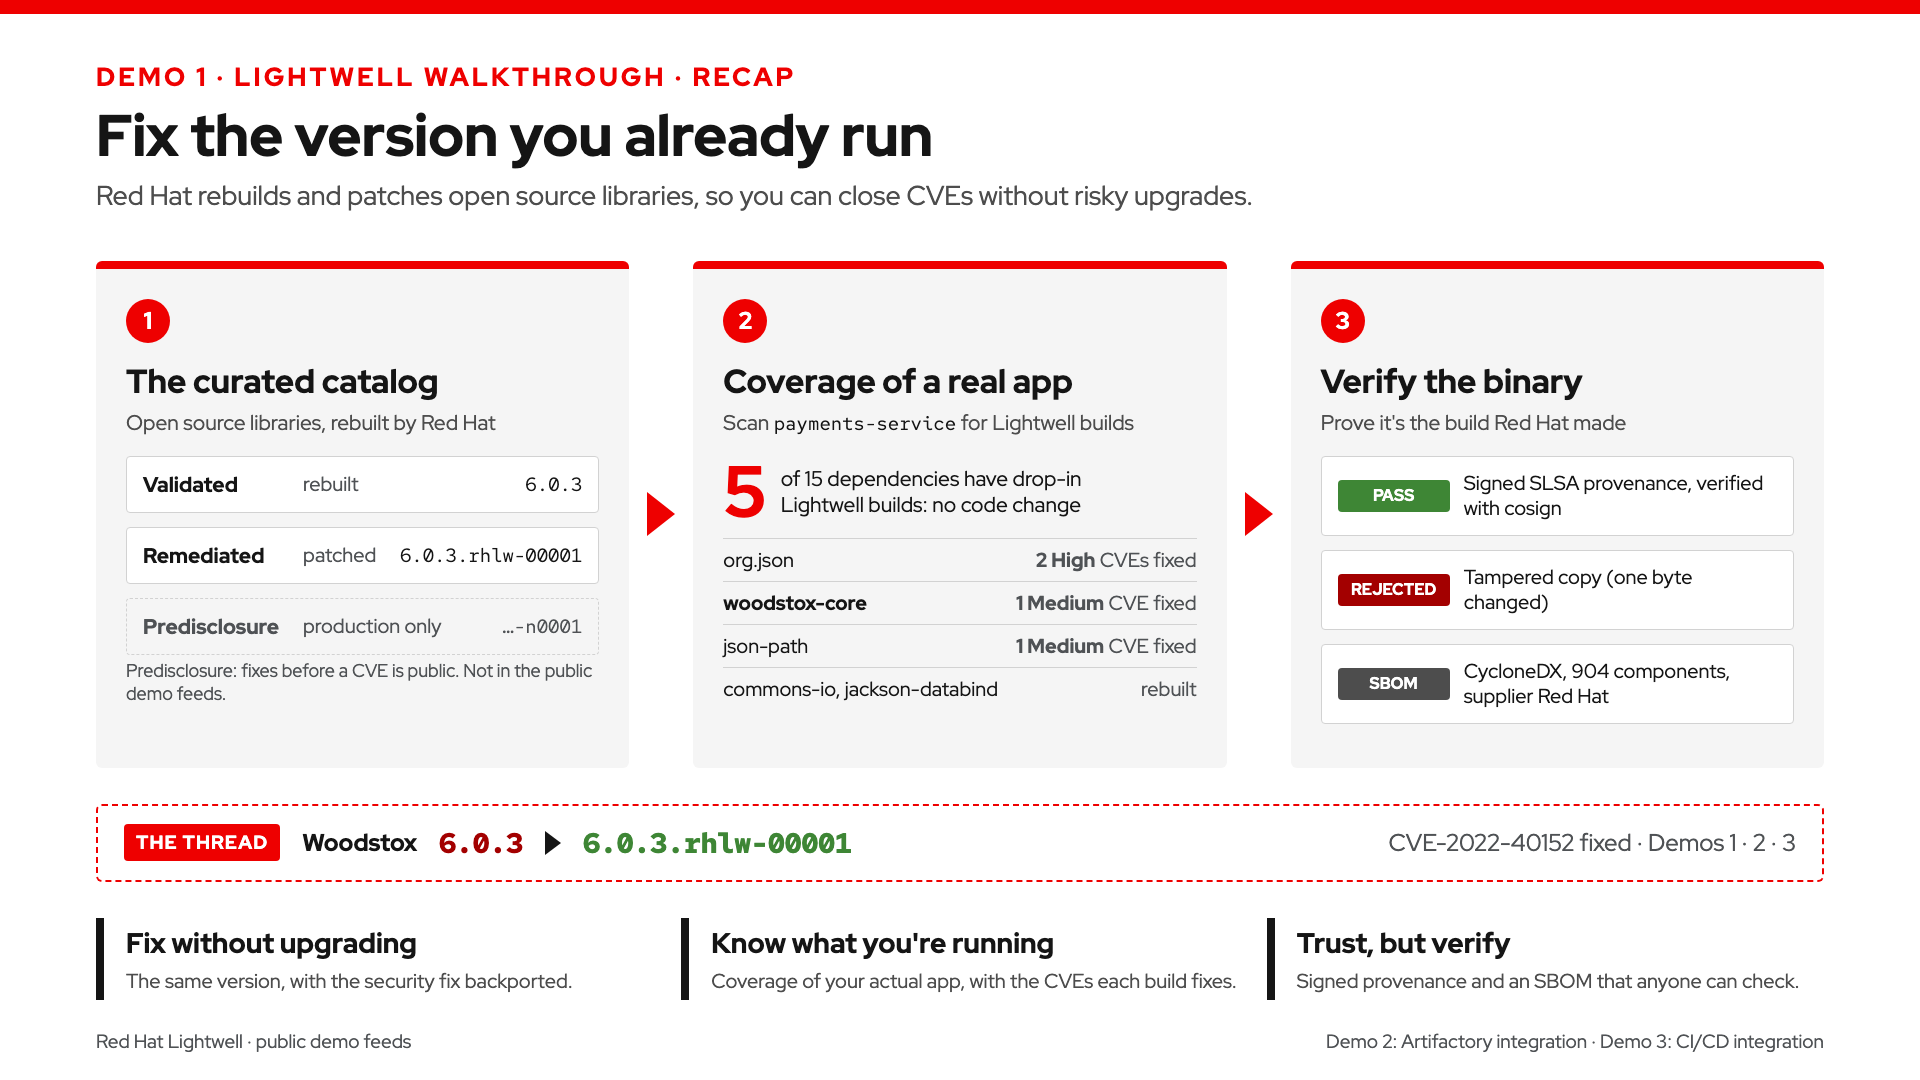
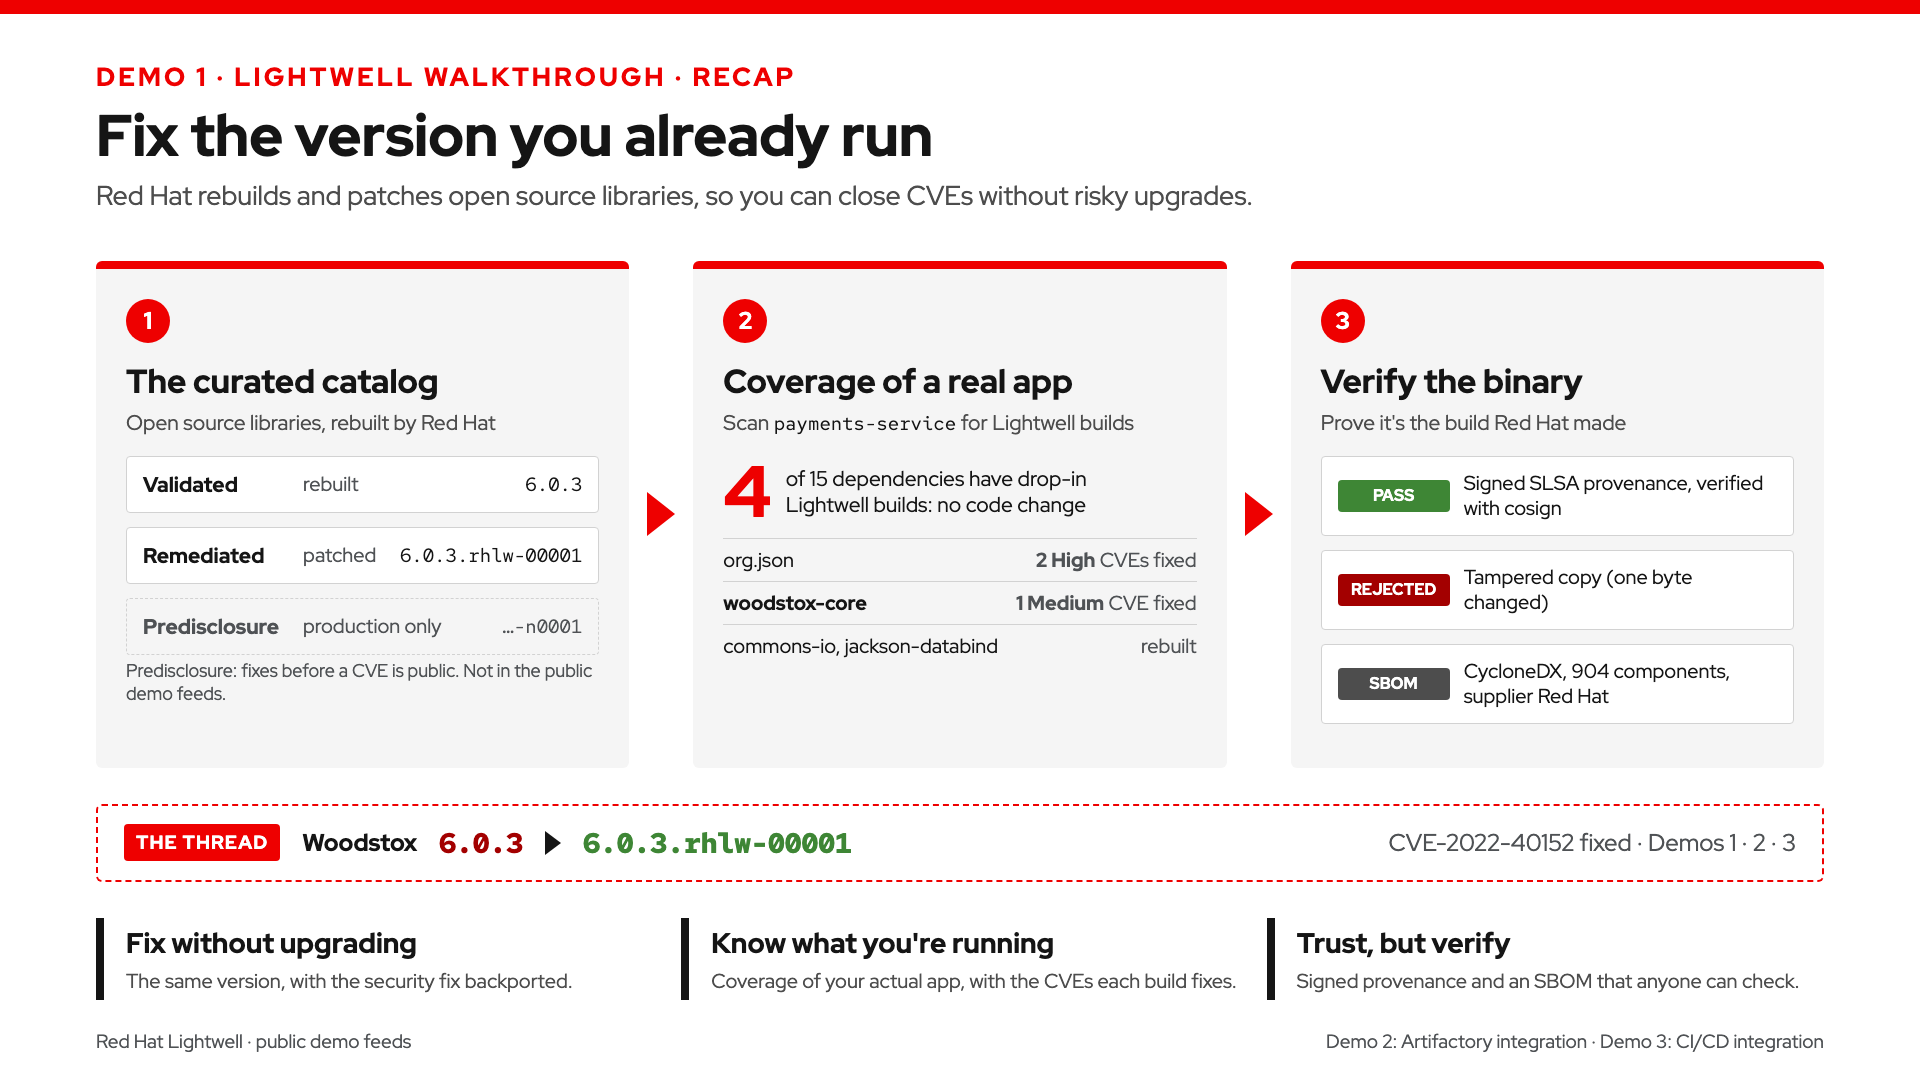
Drop json-path 2.7.0 removed from the Lightwell feed, count only drop-ins on the badge, and read CVEs from the new OSV upstream field

Changed region(s): [[0.375, 0.5806, 0.625, 0.6417], [0.375, 0.4278, 0.5625, 0.4889]]

diff --git a/demos/03-github-plugin/slides/recap.html b/demos/03-github-plugin/slides/recap.html
@@ -123,7 +123,7 @@
       <h2>The plugin</h2>
       <div class="lead">A workflow in its own repo</div>
       <div class="repo"><code>Lightwell Remediate</code><span class="note">workflow</span></div>
-      <div class="repo"><code>catalog.json</code><span class="note">8 Lightwell builds</span></div>
+      <div class="repo"><code>catalog.json</code><span class="note">7 Lightwell builds</span></div>
       <div class="repo"><code>LIGHTWELL_REPO_TOKEN</code><span class="note">one secret</span></div>
       <div class="tier-foot">No Lightwell code in the app.</div>
     </div>
@@ -134,9 +134,9 @@
       <span class="num">2</span>
       <h2>The pull request</h2>
       <div class="lead">Opened on <span class="mono">payments-service</span></div>
-      <div class="stat"><span class="big">5</span><span class="label">bumps in one pull request:<br>five lines in pom.xml</span></div>
+      <div class="stat"><span class="big">4</span><span class="label">bumps in one pull request:<br>four lines in pom.xml</span></div>
       <ul class="bullets">
-        <li><span>org.json, woodstox-core, json-path</span><span><span class="sev high">4 CVEs</span> fixed</span></li>
+        <li><span>org.json, woodstox-core</span><span><span class="sev high">3 CVEs</span> fixed</span></li>
         <li><span>commons-io, jackson-databind</span><span>rebuilt</span></li>
       </ul>
       <div class="check" style="margin-top: 14px;"><span class="badge pass">PASS</span>CI: 9 tests pass on the PR</div>
@@ -149,7 +149,7 @@
       <h2>Merge and badge</h2>
       <div class="lead">A person decides; the badge follows</div>
       <div class="shields">
-        <div class="shield-row"><span class="when">Before merge</span><span class="shield"><span class="k">Lightwell library updates</span><span class="v todo">5 available</span></span></div>
+        <div class="shield-row"><span class="when">Before merge</span><span class="shield"><span class="k">Lightwell library updates</span><span class="v todo">4 available</span></span></div>
         <div class="shield-row"><span class="when">After merge</span><span class="shield"><span class="k">Lightwell library updates</span><span class="v done">0 available</span></span></div>
       </div>
       <div class="check"><span class="badge pass">MERGED</span>Reviewed and merged by a person</div>

diff --git a/demos/01-lightwell-walkthrough/slides/recap.html b/demos/01-lightwell-walkthrough/slides/recap.html
@@ -118,11 +118,10 @@
       <span class="num">2</span>
       <h2>Coverage of a real app</h2>
       <div class="lead">Scan <span class="mono">payments-service</span> for Lightwell builds</div>
-      <div class="stat"><span class="big">5</span><span class="label">of 15 dependencies have drop-in<br>Lightwell builds: no code change</span></div>
+      <div class="stat"><span class="big">4</span><span class="label">of 15 dependencies have drop-in<br>Lightwell builds: no code change</span></div>
       <ul class="bullets">
         <li><span>org.json</span><span><span class="sev high">2 High</span> CVEs fixed</span></li>
         <li><span><b>woodstox-core</b></span><span><span class="sev medium">1 Medium</span> CVE fixed</span></li>
-        <li><span>json-path</span><span><span class="sev medium">1 Medium</span> CVE fixed</span></li>
         <li><span>commons-io, jackson-databind</span><span>rebuilt</span></li>
       </ul>
     </div>

diff --git a/tools/lightwell-github-plugin/tests/test_lightwell.py b/tools/lightwell-github-plugin/tests/test_lightwell.py
@@ -245,6 +245,23 @@ class BadgeTests(unittest.TestCase):
                 self.assertEqual(payload["message"], message)
                 self.assertEqual(payload["color"], color)
 
+    def test_badge_skips_informational_matches(self) -> None:
+        with tempfile.TemporaryDirectory() as tmp:
+            matches_path = Path(tmp) / "matches.json"
+            out = Path(tmp) / "badge.json"
+            matches_path.write_text(
+                json.dumps({"matches": [{"apply": True}, {"apply": False}]}),
+                encoding="utf-8",
+            )
+            old = sys.argv
+            try:
+                sys.argv = ["write_badge.py", "--matches", str(matches_path), "--out", str(out)]
+                self.assertEqual(write_badge.main(), 0)
+            finally:
+                sys.argv = old
+            payload = json.loads(out.read_text(encoding="utf-8"))
+            self.assertEqual(payload["message"], "1 available")
+
 
 class ReportTests(unittest.TestCase):
     def test_report_mentions_auto_pr_not_confirm(self) -> None:
@@ -528,6 +545,13 @@ class OsvCveTests(unittest.TestCase):
         osv_cves.attach_cves_to_matches(matches, [])
         self.assertEqual(matches[0]["cves"], [])
         self.assertIsNone(matches[0]["max_cvss"])
+
+    def test_cves_from_upstream_field(self) -> None:
+        doc = {
+            "id": "RHLW-2026-1da18ff8e343fdf8",
+            "upstream": ["CVE-2023-5072", "CVE-2022-45688", "GHSA-3vqj-43w4-2q58"],
+        }
+        self.assertEqual(osv_cves.osv_cve_ids(doc), ["CVE-2022-45688", "CVE-2023-5072"])
 
 
 class SyncCatalogVersionOrderTests(unittest.TestCase):

diff --git a/tools/lightwell-github-plugin/lightwell-github/osv_cves.py b/tools/lightwell-github-plugin/lightwell-github/osv_cves.py
@@ -4,7 +4,7 @@
 Lightwell publishes OSV docs for remediated builds. Public demo index (anonymous):
   https://packages.redhat.com/api/pulp-content/public-lightwell-demo/osv/java/remediated
 
-Only CVE IDs present in advisory ``aliases`` are returned — never invented.
+Only CVE IDs present in advisory ``aliases`` or ``upstream`` are returned — never invented.
 """
 
 from __future__ import annotations
@@ -167,7 +167,7 @@ def severity_with_fallback(
     if score is not None:
         return score, rating, vector
 
-    aliases = [a for a in (doc.get("aliases") or []) if isinstance(a, str)]
+    aliases = advisory_aliases(doc)
     # Prefer GHSA — typically includes CVSS when the CVE shell does not.
     ordered = sorted(aliases, key=lambda a: (0 if a.startswith("GHSA-") else 1, a))
     seen: set[str] = set()
@@ -193,14 +193,17 @@ def severity_with_fallback(
     return None, None, None
 
 
+def advisory_aliases(doc: dict[str, Any]) -> list[str]:
+    """Related IDs (CVE, GHSA) from ``aliases`` and ``upstream``.
+
+    Lightwell advisories list upstream CVEs in ``upstream`` (OSV 1.7+); older ones used ``aliases``.
+    """
+    ids = (doc.get("aliases") or []) + (doc.get("upstream") or [])
+    return [a for a in ids if isinstance(a, str)]
+
+
 def osv_cve_ids(doc: dict[str, Any]) -> list[str]:
-    return sorted(
-        {
-            a
-            for a in (doc.get("aliases") or [])
-            if isinstance(a, str) and a.startswith("CVE-")
-        }
-    )
+    return sorted({a for a in advisory_aliases(doc) if a.startswith("CVE-")})
 
 
 def osv_fixed_events(doc: dict[str, Any]):

diff --git a/tools/lightwell-github-plugin/lightwell-github/write_badge.py b/tools/lightwell-github-plugin/lightwell-github/write_badge.py
@@ -25,7 +25,8 @@ def main() -> int:
     args = parser.parse_args()
 
     matches = json.loads(args.matches.read_text(encoding="utf-8")).get("matches", [])
-    count = len(matches)
+    # Count only drop-in bumps the PR applies; "serviced at a different version" rows are informational.
+    count = sum(1 for m in matches if m.get("apply", True))
     if count == 0:
         message = "0 available"
         color = "informational"

diff --git a/demos/03-github-plugin/README.md b/demos/03-github-plugin/README.md
@@ -19,7 +19,7 @@
 |---|---|---|
 | 1. The setup | 3 min | Plugin repo, target app, one secret |
 | 2. Run the plugin | 4 min | Actions run: scan, CVE report, PR opened |
-| 3. The pull request | 5 min | CVE table, 5-line pom diff, CI builds the Lightwell versions and passes |
+| 3. The pull request | 5 min | CVE table, 4-line pom diff, CI builds the Lightwell versions and passes |
 | 4. Merge and badge | 2 min | Merge; badge sync updates the count |
 | 5. Wrap-up | 1 min | Business value |
 
@@ -32,12 +32,12 @@
   demos/03-github-plugin/reset.sh OWNER
   demos/03-github-plugin/preflight.sh OWNER
   ```
-- [ ] Badge on the app's home page shows **5 available** (hard refresh, **Cmd+Shift+R**, about 1 minute after the reset).
+- [ ] Badge on the app's home page shows **4 available** (hard refresh, **Cmd+Shift+R**, about 1 minute after the reset).
 - [ ] Browser tabs open:
   - `https://github.com/OWNER/lightwell-demo-plugin/actions`
   - `https://github.com/OWNER/lightwell-demo-payments-service` (README with the badge)
   - `https://github.com/OWNER/lightwell-demo-payments-service/pulls`
-- [ ] Optional dry run the day before (Actions > Lightwell Remediate > Run workflow > dry_run checked): expect success, "Matches: 5", no PR.
+- [ ] Optional dry run the day before (Actions > Lightwell Remediate > Run workflow > dry_run checked): expect success, "Matches: 4", no PR.
 
 ---
 
@@ -72,10 +72,10 @@
 |---|---|
 | Scan | `scan_poms.py` compares each dependency in the app's `pom.xml` files with the catalog |
 | Exact match (library and `fromVersion`) | Proposes `toVersion`, and looks up the CVEs that build fixes in Red Hat's Lightwell OSV data (the PR's CVE and CVSS table) |
-| Library matches, other version | Reported as "serviced at a different version", informational only. None for payments-service with this catalog |
+| Library matches, other version | Reported as "serviced at a different version", informational only, not in the pom diff or the badge count. For payments-service: json-path 2.7.0 (Lightwell has 2.8.0) |
 | Apply | `apply_bumps.py` writes the `toVersion` values into the pom; that becomes the PR |
 
-**Presenter note:** the catalog has 8 entries; 5 match payments-service (org.json, woodstox-core, json-path, commons-io, jackson-databind). It lists only builds verified to build on the public feed; httpclient 4.5.12 and spring-core 5.3.18 were removed because their Lightwell builds are missing dependencies there.
+**Presenter note:** the catalog has 7 entries; 4 are exact matches for payments-service (org.json, woodstox-core, commons-io, jackson-databind). It lists only builds verified to build on the public feed; httpclient 4.5.12 and spring-core 5.3.18 were removed because their Lightwell builds are missing dependencies there, and json-path 2.7.0 because Red Hat removed its Lightwell build from the public feed (November 2026).
 
 **Show:** Settings > Secrets and variables > Actions: `LIGHTWELL_REPO_TOKEN`.
 
@@ -97,7 +97,7 @@
 
 **Show:** the run (about 1 minute): Select target repos > Remediate. Open the job summary.
 
-Expected: "Available library updates: 5", the Lightwell report (bumps with CVEs and CVSS), and "Opened or updated on OWNER/lightwell-demo-payments-service: <PR URL>".
+Expected: "Available library updates: 4", the Lightwell report (bumps with CVEs and CVSS), and "Opened or updated on OWNER/lightwell-demo-payments-service: <PR URL>".
 
 ---
 
@@ -111,11 +111,14 @@ Expected: "Available library updates: 5", the Lightwell report (bumps with CVEs 
 |---|---|---|---|
 | org.json | 20220320 | 20220320.0.0.rhlw-00003 | CVE-2022-45688 (7.5 High), CVE-2023-5072 (7.5 High) |
 | woodstox-core | 6.0.3 | 6.0.3.rhlw-00001 | CVE-2022-40152 (6.5 Medium) |
-| json-path | 2.7.0 | 2.7.0.rhlw-00001 | CVE-2023-51074 (5.3 Medium) |
 | commons-io | 2.11.0 | 2.11.0.rhlw-00001 | validated rebuild |
 | jackson-databind | 2.13.4 | 2.13.4.rhlw-00001 | validated rebuild |
 
-**Show:** Files changed: five lines in `pom.xml`.
+The table also lists json-path 2.7.0 as **Serviced at a different version** (`2.8.0.rhlw-00001`, CVE-2023-51074). It's informational: not in the diff or the badge count.
+
+> If asked: "Lightwell covers json-path at 2.8.0, not the 2.7.0 this app runs. That's a real upgrade, so the plugin reports it instead of changing it."
+
+**Show:** Files changed: four lines in `pom.xml`.
 
 > "Same versions, just the Lightwell suffix. No code changes."
 
@@ -129,7 +132,7 @@ Expected: "Available library updates: 5", the Lightwell report (bumps with CVEs 
 
 ## Part 4: Merge and badge (2 min)
 
-**Show:** the app README badge: "Lightwell library updates: 5 available".
+**Show:** the app README badge: "Lightwell library updates: 4 available".
 
 **Do:** merge the PR.
 
@@ -139,9 +142,9 @@ Expected: "Available library updates: 5", the Lightwell report (bumps with CVEs 
 
 > While waiting: "The badge is an image served by shields.io, so it takes about a minute to catch up." Use the minute to recap the PR.
 
-Expected: the badge goes from **5 available** to **0 available**. Actions shows **Build** and **Lightwell badge sync** both succeeded on `main` after the merge.
+Expected: the badge goes from **4 available** to **0 available**. Actions shows **Build** and **Lightwell badge sync** both succeeded on `main` after the merge.
 
-> "Five down to zero. Every Lightwell update for this app is applied, CI proved it builds, and a person approved the merge."
+> "Four down to zero. Every Lightwell update for this app is applied, CI proved it builds, and a person approved the merge."
 
 To check from the terminal:
 
@@ -154,7 +157,7 @@ gh api "repos/OWNER/lightwell-demo-payments-service/contents/lightwell-badge.jso
 
 ## Part 5: Wrap-up (1 min)
 
-**Show:** the recap slide: press the right arrow in the slideshow (or open [slides/index.html#2](slides/index.html#2)): the plugin's three pieces, the pull request, the badge going from 5 to 0, and the three takeaways along the bottom.
+**Show:** the recap slide: press the right arrow in the slideshow (or open [slides/index.html#2](slides/index.html#2)): the plugin's three pieces, the pull request, the badge going from 4 to 0, and the three takeaways along the bottom.
 
 > "Lightwell plugs into the workflow your developers already use: pull requests and CI. The scan finds what's covered, the PR shows the CVEs fixed, CI proves it builds, and a person decides to merge."
 
@@ -166,7 +169,7 @@ gh api "repos/OWNER/lightwell-demo-payments-service/contents/lightwell-badge.jso
 demos/03-github-plugin/reset.sh OWNER
 ```
 
-It closes open PRs and deletes their branch, moves the app's `main` back to the `demo-start` tag (undoing a merged PR without revert commits), and reruns badge sync. Wait about 1 minute after badge sync finishes, then hard refresh (**Cmd+Shift+R**) to see "5 available".
+It closes open PRs and deletes their branch, moves the app's `main` back to the `demo-start` tag (undoing a merged PR without revert commits), and reruns badge sync. Wait about 1 minute after badge sync finishes, then hard refresh (**Cmd+Shift+R**) to see "4 available".
 
 ## Troubleshooting
 

diff --git a/demos/01-lightwell-walkthrough/README.md b/demos/01-lightwell-walkthrough/README.md
@@ -15,7 +15,7 @@
 |---|---|---|
 | Opening | 1 min | The problem: CVEs, upgrades, regression testing |
 | 1. The curated repository | 3 min | Tiers and version suffixes, in the console |
-| 2. Coverage of a real app | 5 min | The plugin scans `payments-service`: 5 drop-in Lightwell builds, with the CVEs they fix |
+| 2. Coverage of a real app | 5 min | The plugin scans `payments-service`: 4 drop-in Lightwell builds, with the CVEs they fix |
 | 3. Hardened binaries | 5 min | SBOM, signed provenance, signatures; `cosign` verifies, the tamper test fails |
 | 4. Wrap-up | 1 min | Three takeaways, then the hand-off to Demo 2 |
 
@@ -102,7 +102,7 @@ python3 tools/lightwell-github-plugin/lightwell-github/scan_poms.py --root apps/
 code /tmp/lw-scan/report.md
 ```
 
-Expected: `Wrote /private/tmp/lw-scan/matches.json (5 match(es))`.
+Expected: `Wrote /private/tmp/lw-scan/matches.json (5 match(es))`: 4 drop-ins plus json-path, which is serviced at a different version.
 
 **Show:** `report.md` in VS Code's Markdown preview (**Cmd+Shift+V**, zoom with **Cmd+=**). Walk through the "Proposed bumps" table:
 
@@ -110,11 +110,12 @@ Expected: `Wrote /private/tmp/lw-scan/matches.json (5 match(es))`.
 |---|---|---|---|
 | org.json | 20220320 | 20220320.0.0.rhlw-00003 | CVE-2022-45688 (7.5 High), CVE-2023-5072 (7.5 High) |
 | **woodstox-core** | **6.0.3** | **6.0.3.rhlw-00001** | **CVE-2022-40152 (6.5 Medium)** |
-| json-path | 2.7.0 | 2.7.0.rhlw-00001 | CVE-2023-51074 (5.3 Medium) |
 | commons-io | 2.11.0 | 2.11.0.rhlw-00001 | validated rebuild |
 | jackson-databind | 2.13.4 | 2.13.4.rhlw-00001 | validated rebuild |
 
-> "Five of the app's 15 dependencies have drop-ins: same version, just a Lightwell suffix, no code change. Three of them fix known CVEs, two of them High. The CVE details come straight from Red Hat's Lightwell advisories."
+The table also lists json-path 2.7.0 as **Serviced at a different version** (`2.8.0.rhlw-00001`, CVE-2023-51074): Lightwell covers it at 2.8.0, which is a real upgrade, so it isn't proposed as a drop-in.
+
+> "Four of the app's 15 dependencies have drop-ins: same version, just a Lightwell suffix, no code change. Two of them fix three known CVEs, two of those High. The CVE details come straight from Red Hat's Lightwell advisories."
 
 **Show:** the "Proposed pom diff" section.
 
@@ -187,7 +188,7 @@ Expected: `"fixed": "6.0.3.rhlw-00001"`.
 | Validated vs remediated? | Validated: rebuilt and verifiable, not patched. Remediated: the same version, with security fixes backported |
 | Why the public feed? | A demo snapshot that needs no credentials. Production adds predisclosure and the full catalog |
 | What's predisclosure? | Fixes before a CVE is public. Production only, so it's greyed out on the recap slide |
-| Why only 5 of 15? | The catalog lists builds verified to build on the public feed. Spring and HttpClient have Lightwell builds, but they're missing dependencies there. Production covers more |
+| Why only 4 of 15? | The catalog lists builds verified to build on the public feed. Spring and HttpClient have Lightwell builds, but they're missing dependencies there. json-path is covered at 2.8.0, not the app's 2.7.0. Production covers more |
 | How do I trust the JAR? | `cosign` checks Red Hat's signed SLSA provenance against the JAR's digest |
 
 ---

diff --git a/demos/03-github-plugin/setup.md b/demos/03-github-plugin/setup.md
@@ -21,7 +21,7 @@ This creates two **public** repos under your account (new repos, not forks, so s
 | `OWNER/lightwell-demo-plugin` | A copy of [tools/lightwell-github-plugin](../../tools/lightwell-github-plugin/) |
 | `OWNER/lightwell-demo-payments-service` | A copy of [apps/payments-service](../../apps/payments-service/), tagged `demo-start` |
 
-The script replaces the `OWNER` placeholder in the workflows and README with your user. Pushing the app triggers **Build** and **Lightwell badge sync** once, which publishes the first badge ("5 available").
+The script replaces the `OWNER` placeholder in the workflows and README with your user. Pushing the app triggers **Build** and **Lightwell badge sync** once, which publishes the first badge ("4 available").
 
 At the end it asks for the token (step 3). You can paste it then, or press Enter and set it later.
 
